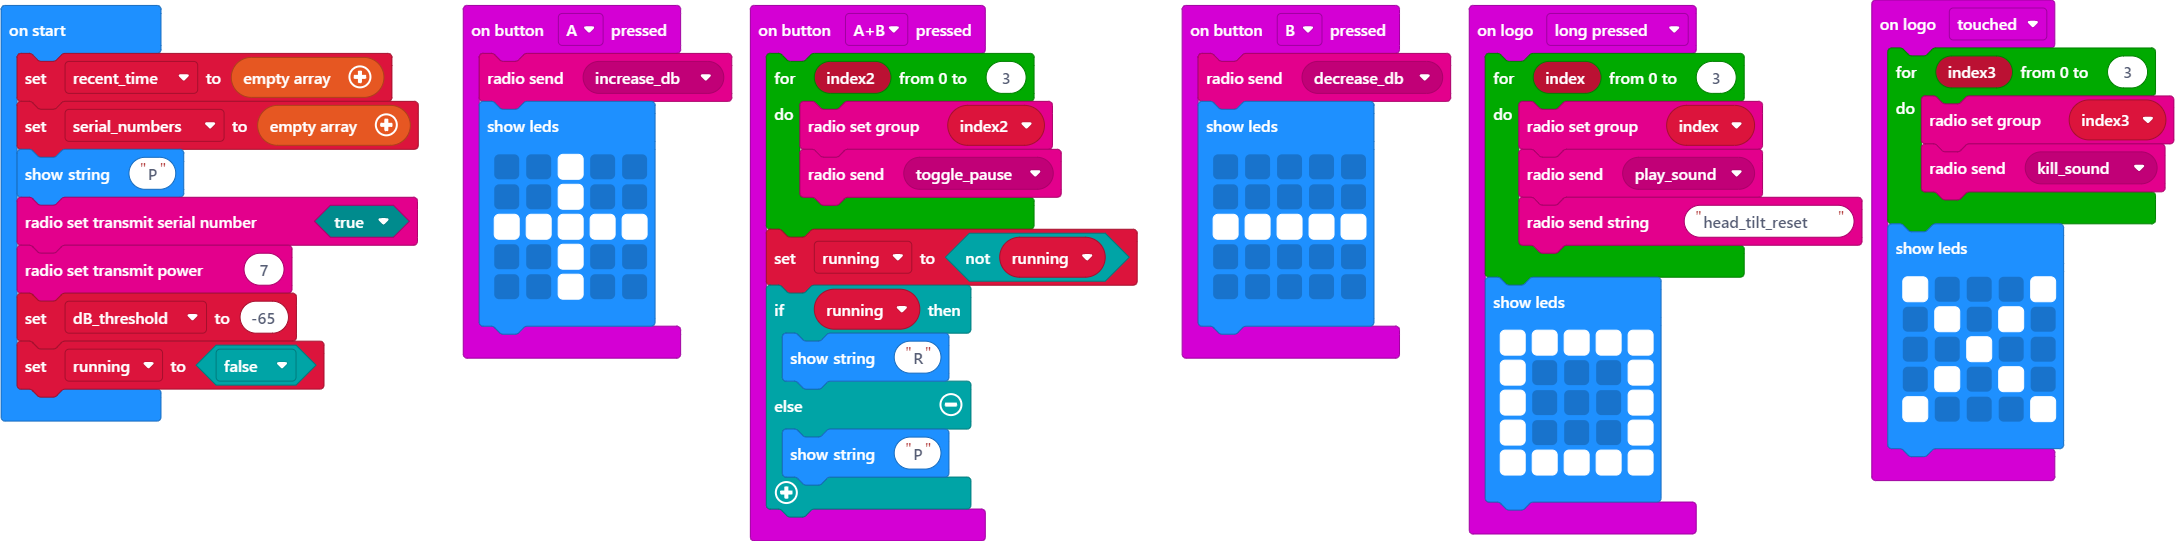
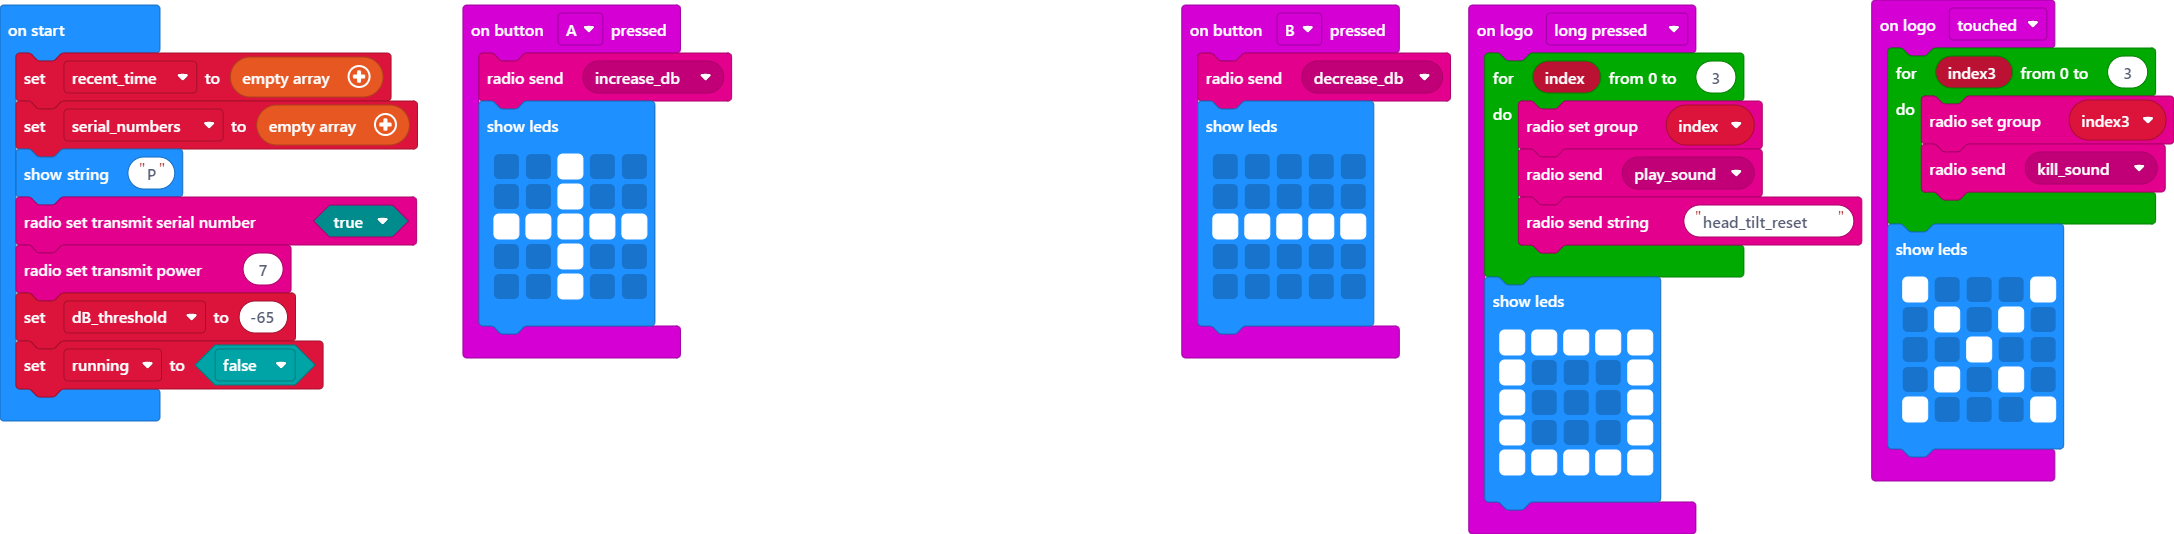
Update main.blocks, main.ts

diff --git a/main.ts b/main.ts
@@ -30,18 +30,6 @@ input.onButtonPressed(Button.A, function () {
         . . # . .
         `)
 })
-input.onButtonPressed(Button.AB, function () {
-    for (let index2 = 0; index2 <= 3; index2++) {
-        radio.setGroup(index2)
-        radio.sendMessage(RadioMessage.toggle_pause)
-    }
-    running = !(running)
-    if (running) {
-        basic.showString("R")
-    } else {
-        basic.showString("P")
-    }
-})
 input.onButtonPressed(Button.B, function () {
     radio.sendMessage(RadioMessage.decrease_db)
     basic.showLeds(`
@@ -65,11 +53,10 @@ input.onLogoEvent(TouchButtonEvent.Touched, function () {
         # . . . #
         `)
 })
-let running = false
 let recent_time: number[] = []
 let serial_numbers: number[] = []
 basic.showString("P")
 radio.setTransmitSerialNumber(true)
 radio.setTransmitPower(7)
 let dB_threshold = -65
-running = false
+let running = false
